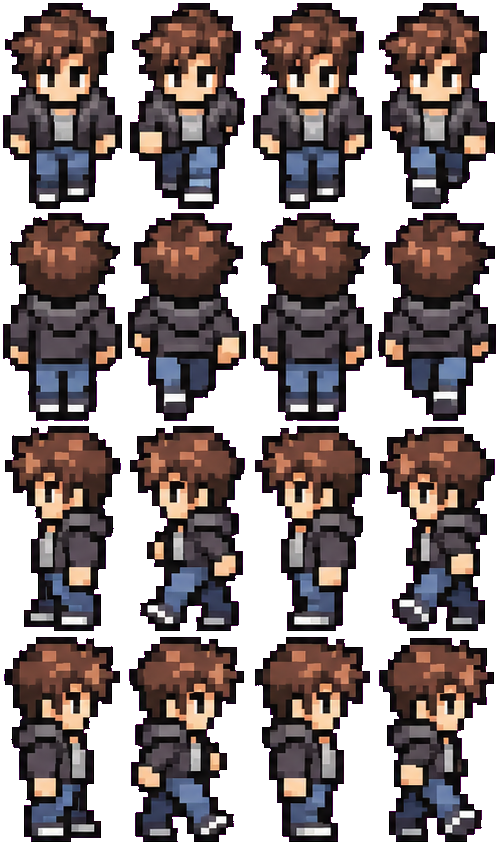
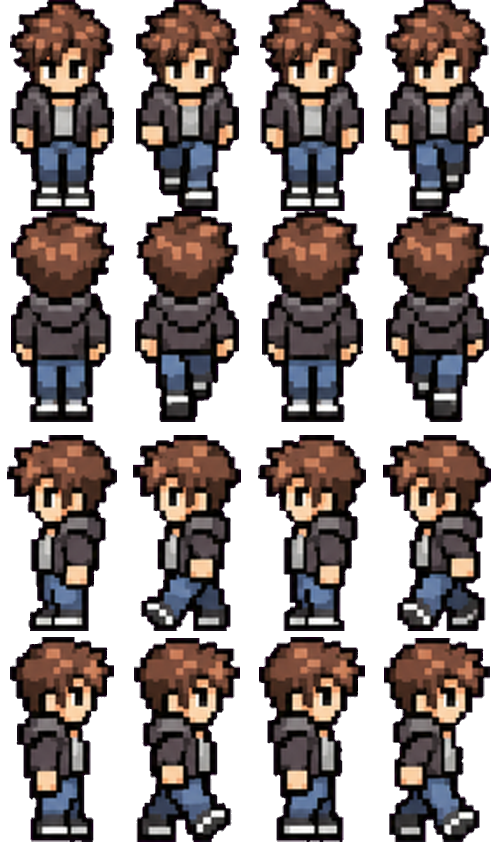
The Unwritten: the boy, the girl and the autumn jogger redrawn by ChatGPT in the townsfolk style
Claude-Session: https://claude.ai/code/session_01TBSkio7k4jk7kM2MR7UMZN

diff --git a/unwritten/js/core/kid.js b/unwritten/js/core/kid.js
@@ -5,6 +5,9 @@
 //  pink background; his art is 8x, so it is drawn at 1/8 size, at the screen's full pixel density). Right = his left, mirrored.
 //  The girl (Nov 22, Christian: "the main female sprite doesn't match the boy"): drawn with ChatGPT on the boy's sheet as the template,
 //  keyed and fitted to his exact cells (125 x 211, feet on row 208); her right row is her left row mirrored, as his is.
+//  Nov 27, Christian: "improve the main characters and the jogger to bring them up to the quality of the other townsfolk": the boy
+//  and the girl redrawn by ChatGPT in the townsfolk style (a townsperson sheet as the style reference, their designs kept), fitted
+//  to the same cells; the old sheets are in assets/kid/old/.
 //  Rows: down, up, left, right. Poses for story and battle are in assets/kid/<kid>_poses.png.
 //  The town stays grounded: no fairy out here. Curiosity's sheet waits for the inward places.
 // =====================================================================
